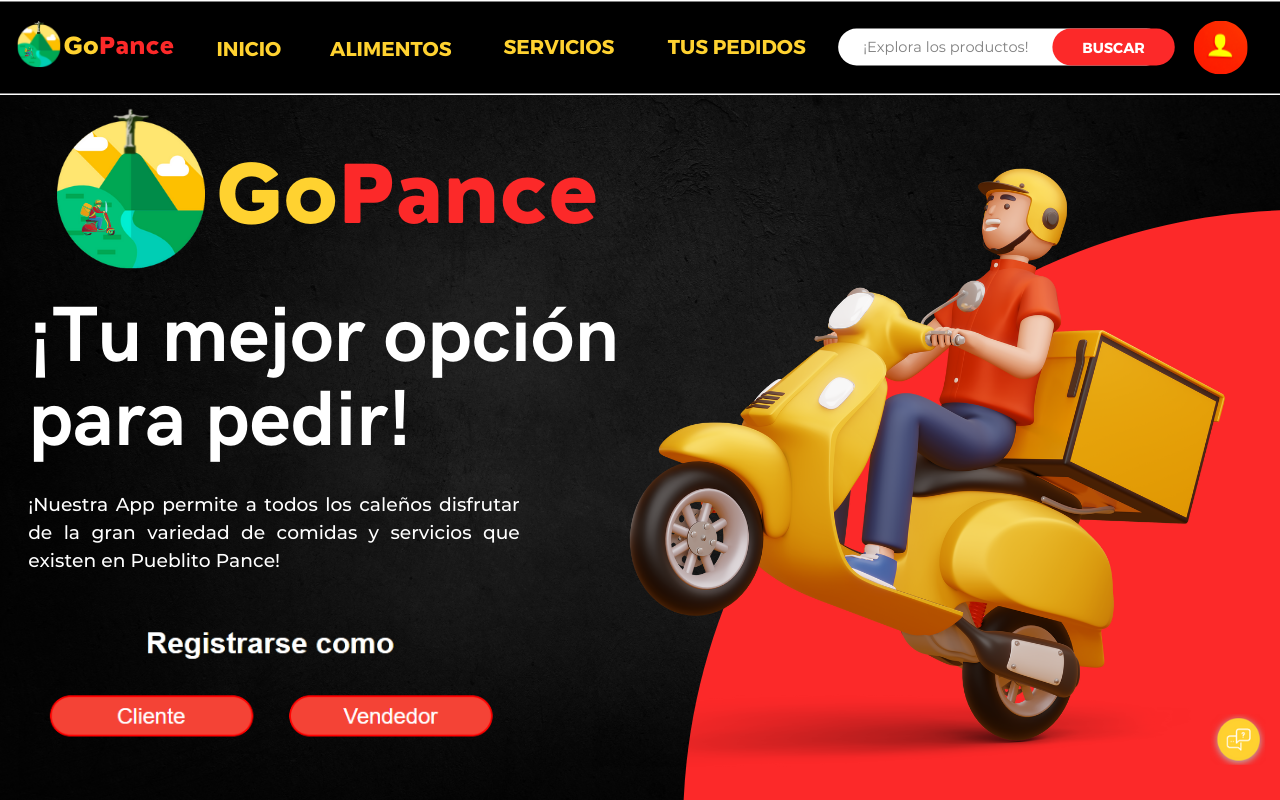
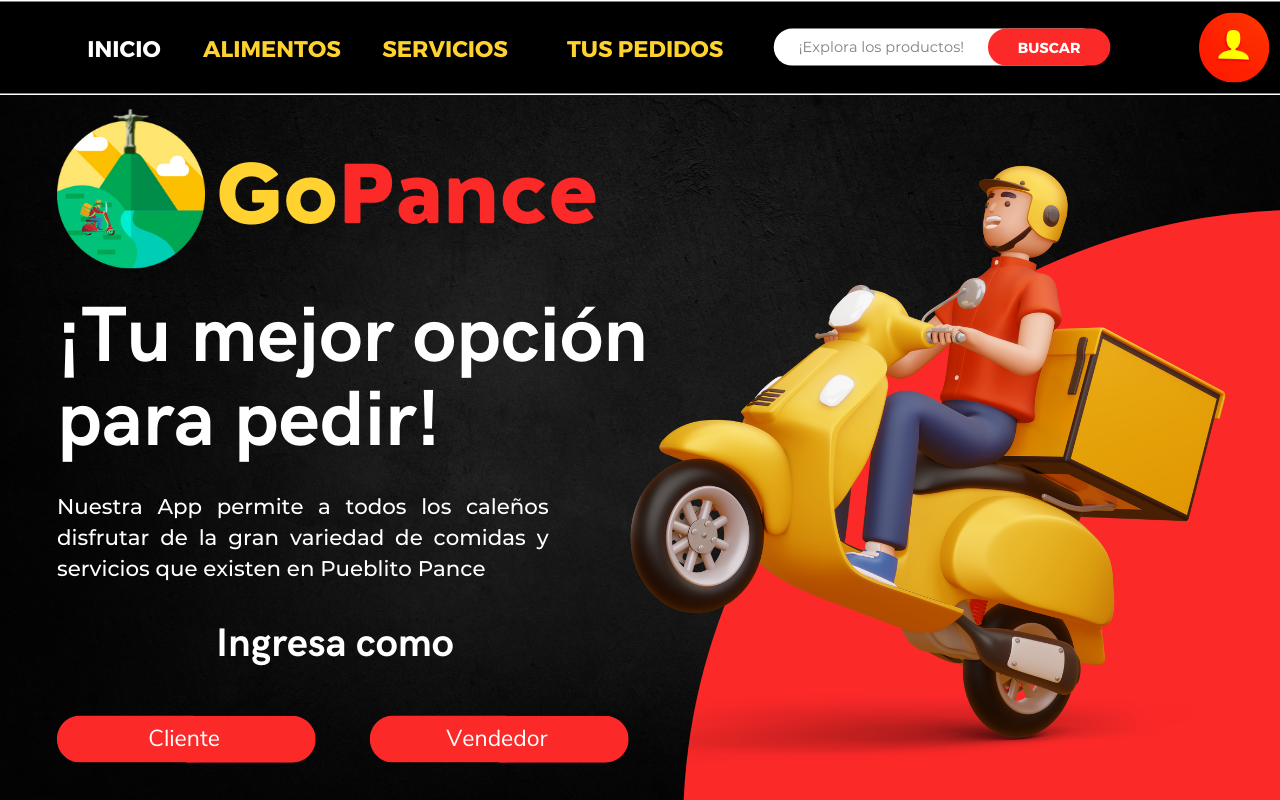
Revert "Interfaces actualizadas"

diff --git a/src/pages/Inicio/pg_inicio.js b/src/pages/Inicio/pg_inicio.js
@@ -34,8 +34,8 @@ export const Inicio = () => {
                 <div className="ini">
                     <img src={gopancelogo} position="relative" /><br /><br />
                     <h1 >¡Tu mejor opción para pedir!</h1>
-                    <p >¡Nuestra App permite a todos los caleños disfrutar de la grán variedad de comidas y servicios que existen en Pueblito Pance!</p>
-                    <h2> Registrarse como</h2>
+                    <p >Nuestra App permite a todos los caleños disfrutar de la grán variedad de comidas y servicios que existen en Pueblito Pance!</p>
+                    <h2> Ingresa como</h2>
 
                     <div className="divbutn">
                         <button type="button" className="butn" onClick={rutaRegistrarCliente}>Cliente</button><button type="button" className="butn" onClick={rutaRegistrarVendedor}> Vendedor</button>
